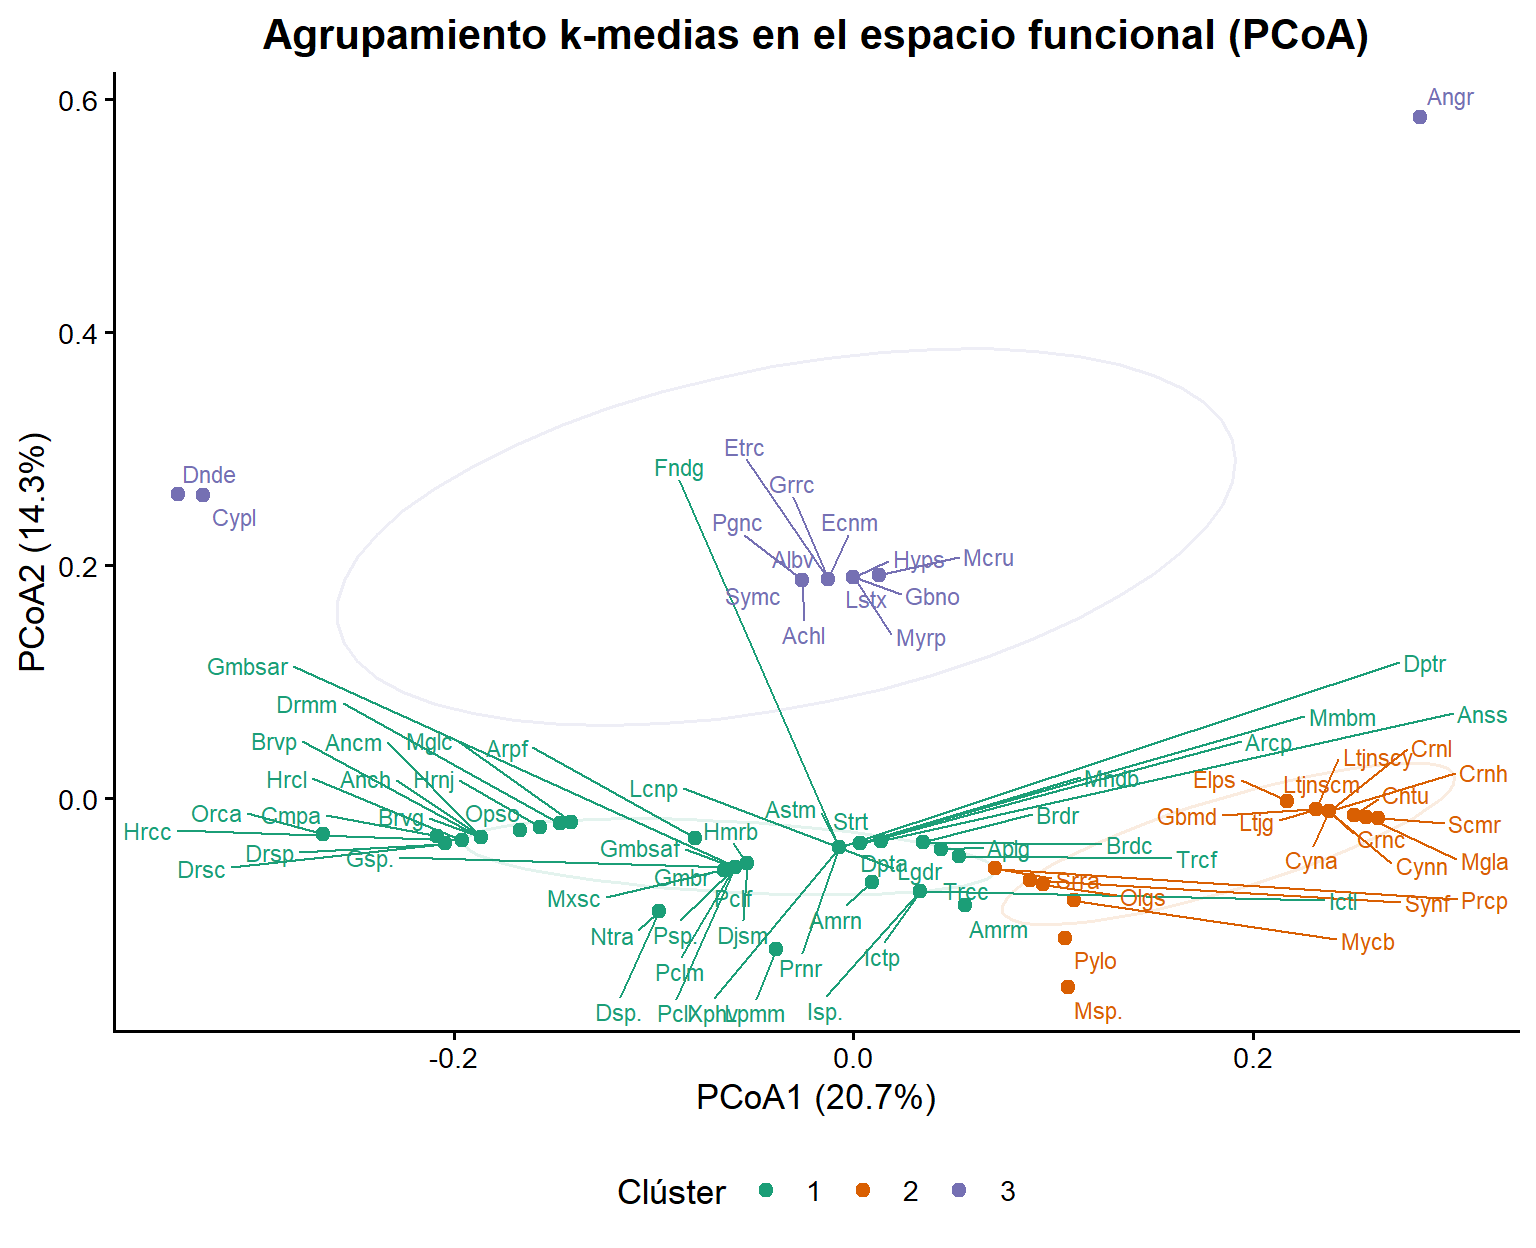
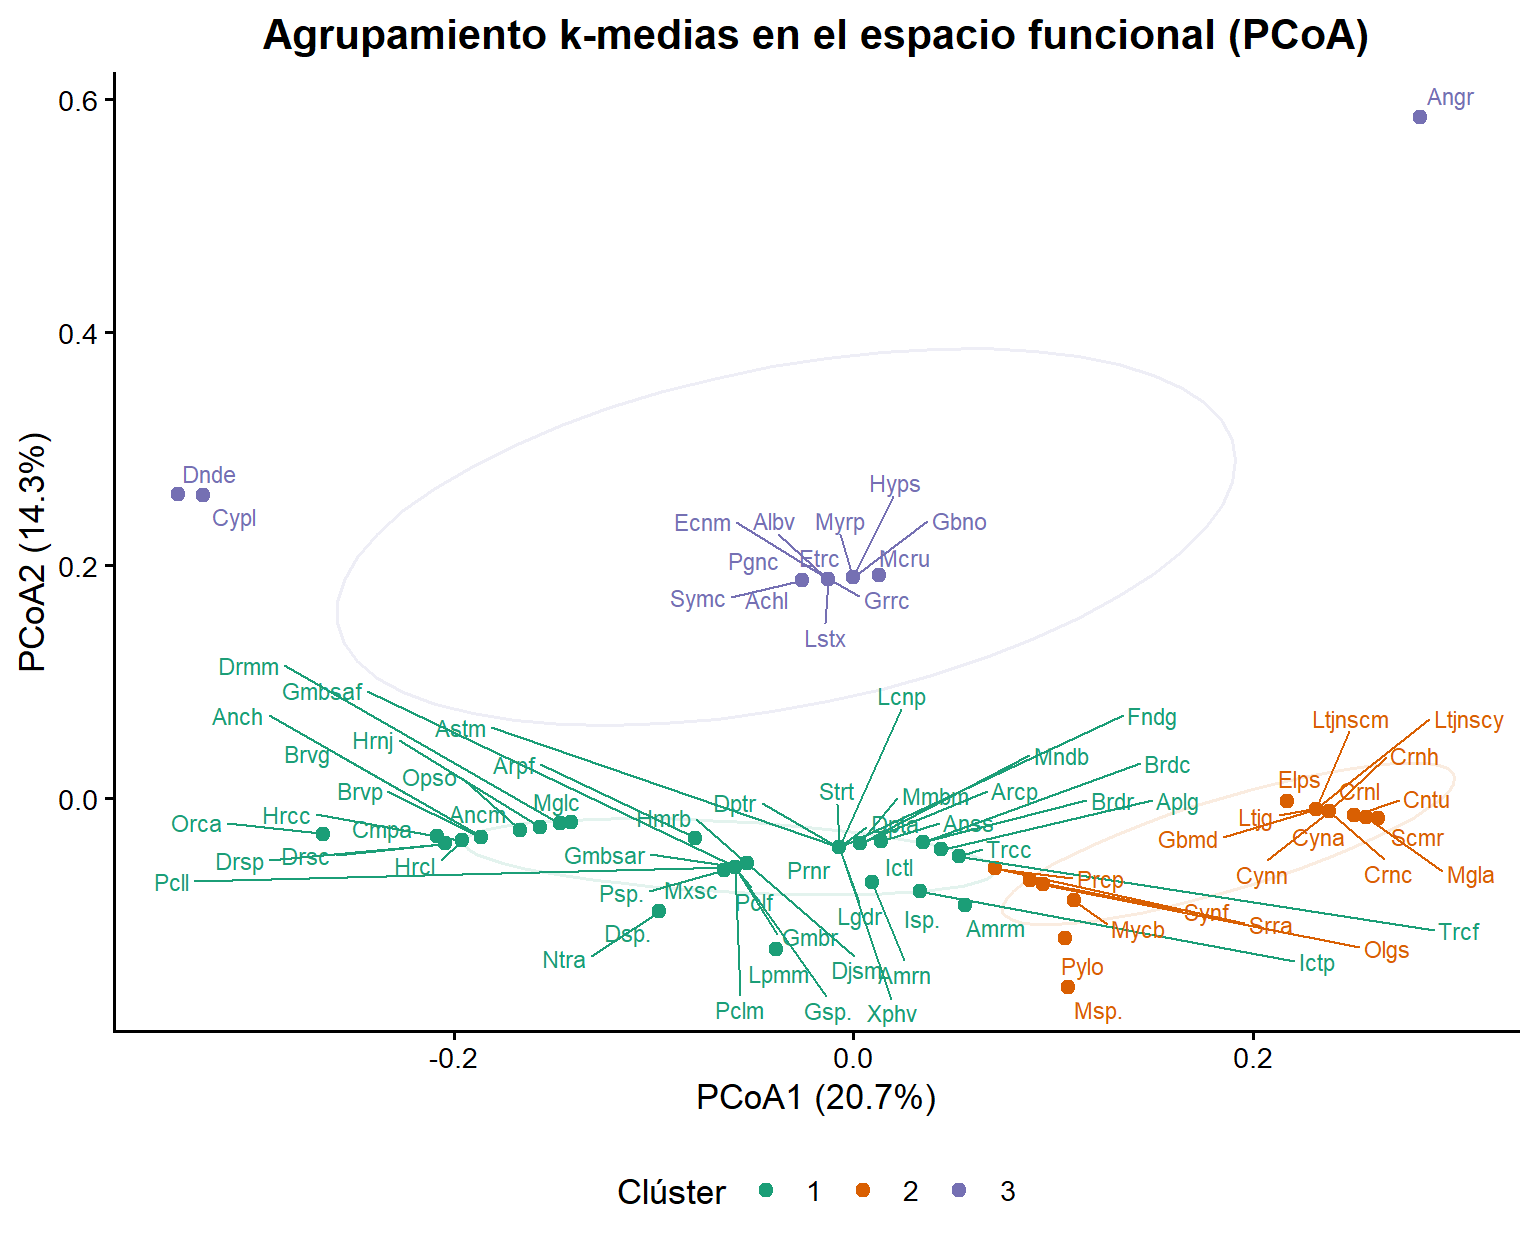
summary

Changed region(s): [[0.0625, 0.5312, 1.0, 0.8438], [0.4375, 0.375, 0.6562, 0.5312], [0.4688, 0.3438, 0.5, 0.375]]

diff --git a/9.Manual_d_multidim_26/html/Taller2_Diversidad_Funcional1.html b/9.Manual_d_multidim_26/html/Taller2_Diversidad_Funcional1.html
@@ -337,9 +337,9 @@ window.Quarto = {
   <li><a href="#ejercicio-7-transferencia-al-estudio-de-caso" id="toc-ejercicio-7-transferencia-al-estudio-de-caso" class="nav-link" data-scroll-target="#ejercicio-7-transferencia-al-estudio-de-caso">Ejercicio 7 — Transferencia al estudio de caso</a></li>
   </ul></li>
   <li><a href="#conexión-con-td-fd-y-pd" id="toc-conexión-con-td-fd-y-pd" class="nav-link" data-scroll-target="#conexión-con-td-fd-y-pd">Conexión con TD, FD y PD</a></li>
-  <li><a href="#sec-estudio-caso" id="toc-sec-estudio-caso" class="nav-link" data-scroll-target="#sec-estudio-caso">Anticipando el estudio de caso</a>
+  <li><a href="#sec-estudio-caso" id="toc-sec-estudio-caso" class="nav-link" data-scroll-target="#sec-estudio-caso">Anticipando el estudio de caso</a></li>
+  <li><a href="#sec-apoyo" id="toc-sec-apoyo" class="nav-link" data-scroll-target="#sec-apoyo">Material de apoyo y cuestionario FD</a>
   <ul>
-  <li><a href="#sec-apoyo" id="toc-sec-apoyo" class="nav-link" data-scroll-target="#sec-apoyo">Material de apoyo y cuestionario FD</a></li>
   <li><a href="#enlaces-de-materiales-complementarios" id="toc-enlaces-de-materiales-complementarios" class="nav-link" data-scroll-target="#enlaces-de-materiales-complementarios">Enlaces de materiales complementarios</a>
   <ul>
   <li><a href="#guía-de-estudio" id="toc-guía-de-estudio" class="nav-link" data-scroll-target="#guía-de-estudio"><img src="images/clipboard-2446997246.png" class="img-fluid" width="73">Guía de estudio</a></li>
@@ -3884,18 +3884,18 @@ Intervalo de confianza
 </div>
 </div>
 <hr>
-<section id="sec-apoyo" class="level2">
-<h2 class="anchored" data-anchor-id="sec-apoyo">Material de apoyo y cuestionario FD</h2>
+</section>
+<section id="sec-apoyo" class="level1">
+<h1>Material de apoyo y cuestionario FD</h1>
 <p><img src="https://javier-2712.github.io/Manuales/9.Manual_d_multidim_26/figuras/cuestionario.jpg" class="img-fluid" width="286"></p>
 <p>Para repasar y profundizar después de la sesión:</p>
 <div class="material-apoyo">
 <ul>
-<li><i class="bi bi-ui-checks"></i> <a href="https://javier-2712.github.io/Manuales/9.Manual_d_multidim_26/html/Cuestionario_Diversidad_funcional1.html"><strong>Cuestionario de profundización · Diversidad funcional (FD)</strong></a> — con datos simulados de comunidades tropicales (asignación 7: entrega y sustentación oral).</li>
+<li><i class="bi bi-ui-checks"></i> <a href="https://javier-2712.github.io/Manuales/9.Manual_d_multidim_26/asignaciones/1_cuestionario_FD/Cuestionario_Diversidad_funcional.html"><strong>Cuestionario de profundización · Diversidad funcional (FD)</strong></a> — con datos simulados de comunidades tropicales (asignación 7: entrega y sustentación oral).</li>
 </ul>
 </div>
 <hr>
 <div style="page-break-after: always;"></div>
-</section>
 <section id="enlaces-de-materiales-complementarios" class="level2">
 <h2 class="anchored" data-anchor-id="enlaces-de-materiales-complementarios">Enlaces de materiales complementarios</h2>
 <p><img src="https://javier-2712.github.io/Manuales/9.Manual_d_multidim_26/figuras/materiales-nblm.png" class="img-fluid" width="350"></p>
